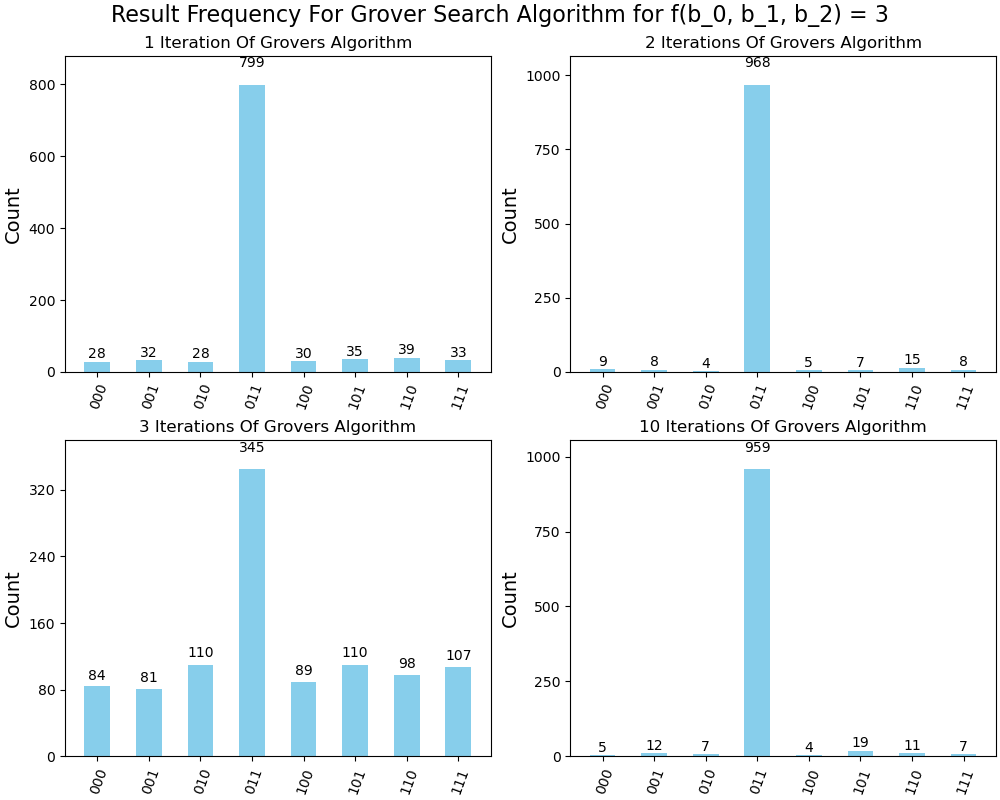
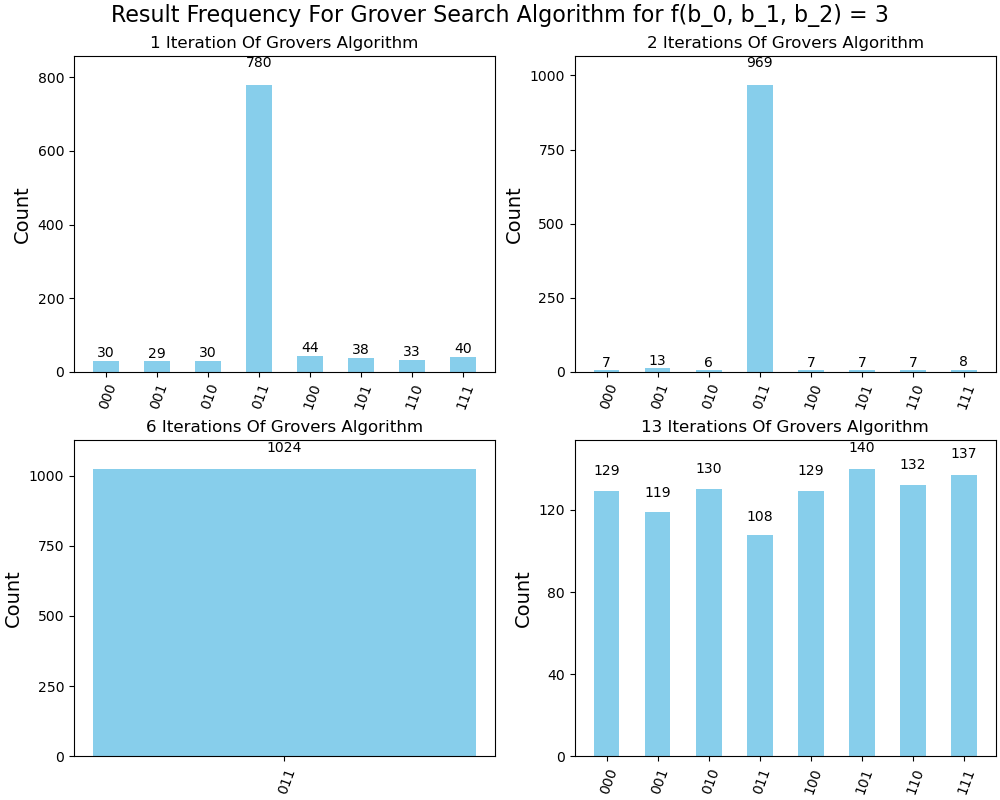
Adjusted iteration counts to view interesting accuracy results in Grover's Algorithm

diff --git a/OtherAlgorithms/GroverSearchAlgorithm.py b/OtherAlgorithms/GroverSearchAlgorithm.py
@@ -119,16 +119,16 @@ def outputSearchResultsFor3BitNumber(number_to_search):
     title = f"Result Frequency For Grover Search Algorithm for f(b_0, b_1, b_2) = {number_to_search}"
     axes[0,0].set_title('1 Iteration Of Grovers Algorithm')
     axes[0,1].set_title('2 Iterations Of Grovers Algorithm')
-    axes[1,0].set_title('3 Iterations Of Grovers Algorithm')
-    axes[1,1].set_title('10 Iterations Of Grovers Algorithm')
+    axes[1,0].set_title('6 Iterations Of Grovers Algorithm')
+    axes[1,1].set_title('13 Iterations Of Grovers Algorithm')
     fig.suptitle(title, fontsize=16) 
     fig.canvas.manager.set_window_title(f'GroverSearchAlgorithms_SearchFor{number_to_search}_Histograms') 
 
     title_circuits = f"Circuit Diagrams For Grover Search Algorithm for f(b_0, b_1, b_2) = {number_to_search}"
-    axes_circuits[0].set_title('1 Iteration Of Grovers Algorithm',x=0.5, y=1.75)
-    axes_circuits[1].set_title('2 Iterations Of Grovers Algorithm',x=0.5, y=2.5)
-    axes_circuits[2].set_title('3 Iterations Of Grovers Algorithm',x=0.5, y=1.53)
-    axes_circuits[3].set_title('10 Iterations Of Grovers Algorithm',x=0.5, y=1)
+    axes_circuits[0].set_title('1 Iteration Of Grovers Algorithm',x=0.5, y=2.1)
+    axes_circuits[1].set_title('2 Iterations Of Grovers Algorithm',x=0.5, y=3)
+    axes_circuits[2].set_title('6 Iterations Of Grovers Algorithm',x=0.5, y=1.35)
+    axes_circuits[3].set_title('13 Iterations Of Grovers Algorithm',x=0.5, y=1)
     fig_circuits.suptitle(title_circuits, fontsize=16) 
     fig_circuits.canvas.manager.set_window_title(f'GroverSearchAlgorithms_SearchFor{number_to_search}_CircuitDiagrams') 
 
@@ -160,7 +160,7 @@ def outputSearchResultsFor3BitNumber(number_to_search):
     classical_bits = ClassicalRegister(3, 'z')
     quantum_circuit = QuantumCircuit(inputs, output, classical_bits)
 
-    createGroverSearchFor3BitNumber(quantum_circuit, inputs, output, classical_bits, number_to_search, 3)
+    createGroverSearchFor3BitNumber(quantum_circuit, inputs, output, classical_bits, number_to_search, 6)
     simulator = Aer.get_backend('aer_simulator')
     circ = transpile(quantum_circuit, simulator)
     result = simulator.run(quantum_circuit).result()
@@ -173,7 +173,7 @@ def outputSearchResultsFor3BitNumber(number_to_search):
     classical_bits = ClassicalRegister(3, 'z')
     quantum_circuit = QuantumCircuit(inputs, output, classical_bits)
 
-    createGroverSearchFor3BitNumber(quantum_circuit, inputs, output, classical_bits, number_to_search, 10)
+    createGroverSearchFor3BitNumber(quantum_circuit, inputs, output, classical_bits, number_to_search,13)
     simulator = Aer.get_backend('aer_simulator')
     circ = transpile(quantum_circuit, simulator)
     result = simulator.run(quantum_circuit).result()
